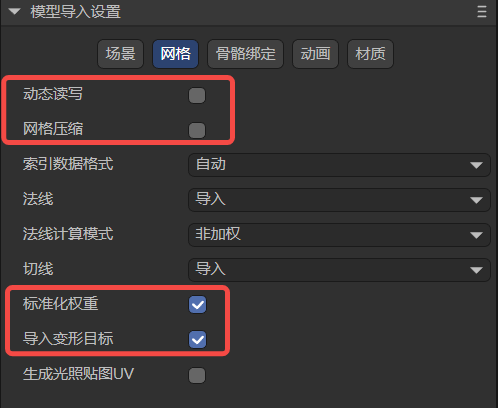
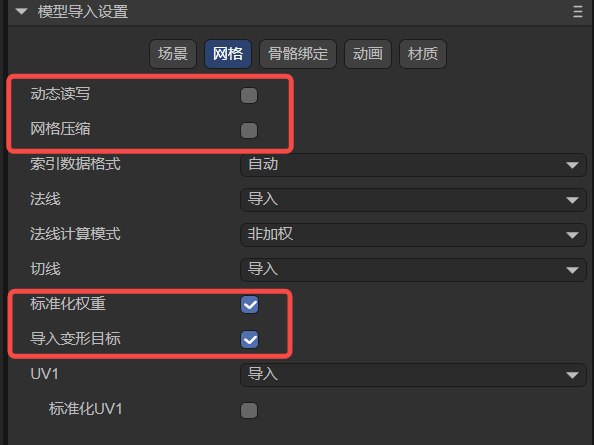
"模型导入设置"更改2

diff --git a/IDE/assets/model/readme.md b/IDE/assets/model/readme.md
@@ -6,7 +6,7 @@
 
 LayaAir3-IDE仅支持**fbx、gltf、glb**这几种后缀的模型格式导入。
 
-> LayaAirIDE也支持**“LayaAir-Unity资源导出插件”导出的模型与网格**的导入(.lh与.lm后缀)。本篇主要是指外部模型文件，如果有lm网格配置的需求，本篇文档也适用。
+> LayaAirIDE也支持`“LayaAir-Unity资源导出插件”导出的模型与网格`的导入(.lh与.lm后缀)。本篇主要是指外部模型文件，如果有lm网格配置的需求，本篇文档也适用。
 
 这几种后缀的模型拖拽到入到项目资源的assets目录内，即会自动进行转换导入，然后就可以添加在场景中了。
 
@@ -101,7 +101,7 @@ LayaAir3-IDE仅支持**fbx、gltf、glb**这几种后缀的模型格式导入。
 
 （图3-2）
 
-**自动：**自动是默认选项，该模式下，LayaAir会根据顶点数来自动决定使用哪一种数据格式，默认会优先使用UInt16，当顶点数超过65535时，会自动切到UInt32数据格式。
+**自动**：自动是默认选项，该模式下，LayaAir会根据顶点数来自动决定使用哪一种数据格式，默认会优先使用UInt16，当顶点数超过65535时，会自动切到UInt32数据格式。
 
 **UInt16**：这意味着索引数据使用16位无符号整数（0~65535）来表示。使用16位索引可以节省内存，并在大多数情况下足够表达顶点的索引。然而，当模型的顶点数超过65535时，就需要拆分成多个子网格来渲染，可能会增加绘制调用的数量。
 
@@ -123,9 +123,9 @@ LayaAir3-IDE仅支持**fbx、gltf、glb**这几种后缀的模型格式导入。
 
 (图3-4)
 
-**导入，**表示使用模型文件中预先定义的法线数据。这意味着，如果模型文件中包含了法线信息，LayaAir将直接使用这些法线数据进行渲染。如果模型没有法线数据或法线数据不正确，可能会得到不正确的光照效果。
+**导入**，表示使用模型文件中预先定义的法线数据。这意味着，如果模型文件中包含了法线信息，LayaAir将直接使用这些法线数据进行渲染。如果模型没有法线数据或法线数据不正确，可能会得到不正确的光照效果。
 
-**计算，**表示在导入模型时会重新计算模型的法线数据。这在某些情况下可能是有用的，例如当模型的法线数据不完整或不准确时。重新计算法线可能会消耗一些计算资源，但可以确保模型的光照效果正确。
+**计算**，表示在导入模型时会重新计算模型的法线数据。这在某些情况下可能是有用的，例如当模型的法线数据不完整或不准确时。重新计算法线可能会消耗一些计算资源，但可以确保模型的光照效果正确。
 
 无论是导入还是计算，都需要设置关联属性**法线计算模式** ，而选择**无**则会完全忽略模型的法线数据，顶点不会传入。IDE中也不会显示`法线计算模式`这个属性。**无**这个选项可能会用于特定的渲染需求，或者在LayaAir中手动编辑法线或使用脚本计算法线。否则，意味着在渲染时，将没有法线数据可用，可能会导致不正确的光照视觉效果。
 
@@ -157,13 +157,23 @@ LayaAir3-IDE仅支持**fbx、gltf、glb**这几种后缀的模型格式导入。
 
 **导入**，会使用模型文件中预先定义的切线数据。这意味着，如果模型文件中包含了切线信息，LayaAir将直接使用这些切线数据进行渲染。如果模型没有切线数据或切线数据不正确，你可能会得到不正确的法线映射效果。
 
-### 3.4 光照贴图UV1 `generate Lightmap UVs`
+### 3.4 UV1
 
-默认的模型通常只有一个UV，勾选生成光照贴图UV，以及对子项配置，用于再生成一个UV1来支持光照贴图。如图3-7所示。
+在模型导入时，默认可以将模型中自带的UV1导入进来。如图3-7所示，
 
 ![3-7](img/3-7.png)
 
 （图3-7）
+
+可以勾选`标准化UV1（Normal UV1）`，勾选后，模型在导入时，其自带的UV1才具备光照贴图烘焙的标准，否则默认导入的UV1不会启动光照贴图烘培流程。如果UV1不是用于光照贴图烘培，可以不用勾选该选项。
+
+有时，模型只有一个默认的UV，如果想再生成一个UV1来支持光照贴图，如图3-8所示，可以选择`生成`选项。
+
+![3-8](img/3-8.png)
+
+（图3-8）
+
+以下是对其子项的配置：
 
 #### 3.4.1 最大图表区域大小max Chart Area
 
@@ -180,12 +190,6 @@ LayaAir3-IDE仅支持**fbx、gltf、glb**这几种后缀的模型格式导入。
 算法中，会判断生成或合并两个图表后的边界长度是否超过了预设的最大边界长度限制，如果超过，则受到限制，不进行合并或中止生成，以此控制生成的图表在边界方面的紧凑程度。
 
 默认情况下，边界最大长度的值为0，表示不对图表的边界最大长度进行限制。
-
-效果如图3-8所示:
-
-
-
-(图3-8)
 
 #### 3.4.3 法线偏差权重normal Deviation Weight
 
